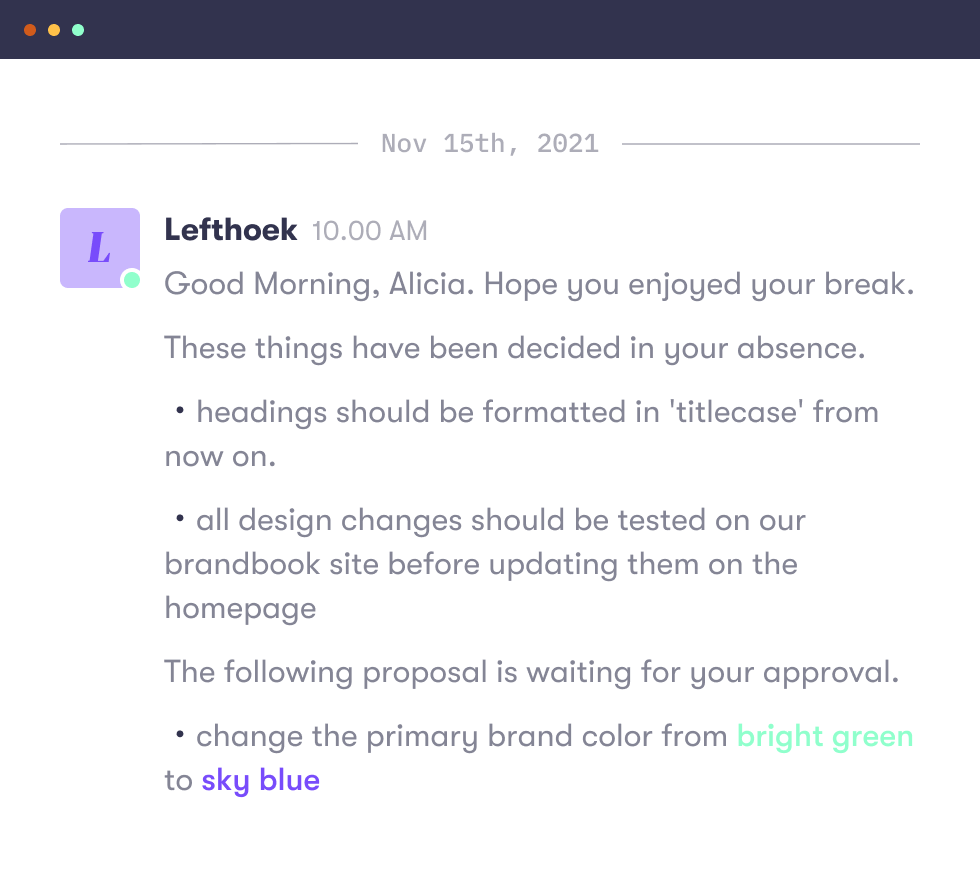
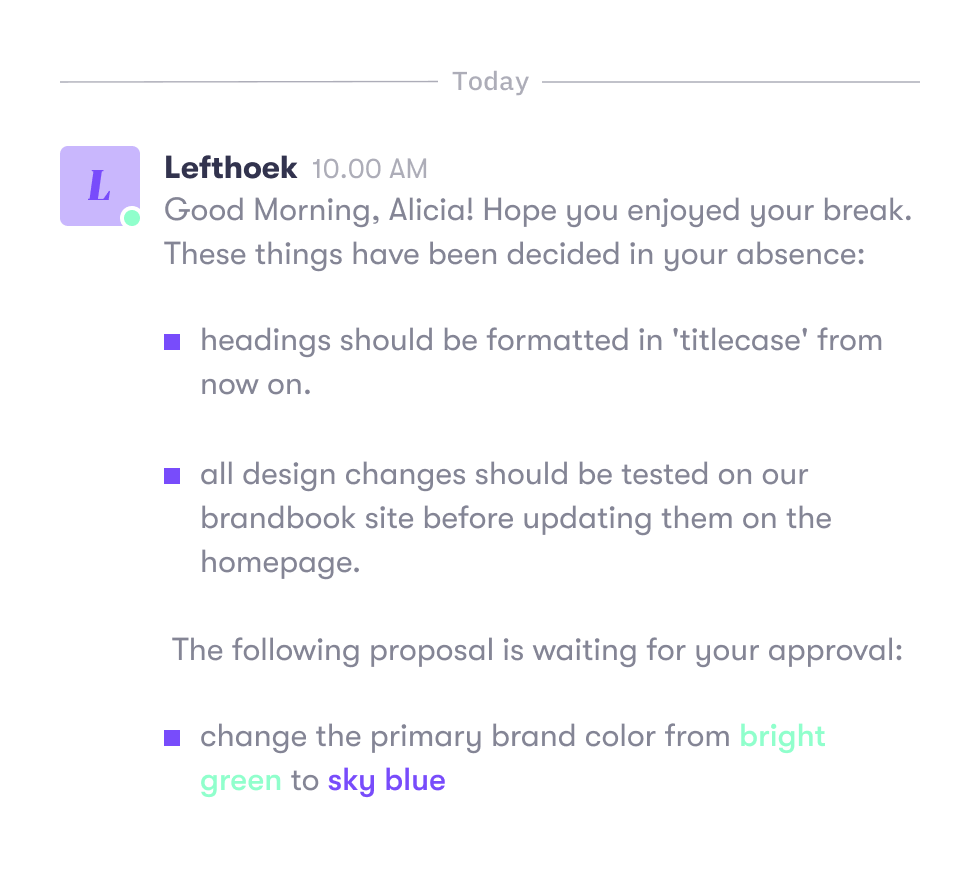
reduce body font weight

diff --git a/packages/ui-theme/src/typography.ts b/packages/ui-theme/src/typography.ts
@@ -48,7 +48,7 @@ export const text = {
   body: {
     fontSize: ["18px", "18px"],
     lineHeight: ["28px", "28px"],
-    fontWeight: 500,
+    fontWeight: 400,
     fontFamily: "body",
   },
   smallBody: {
